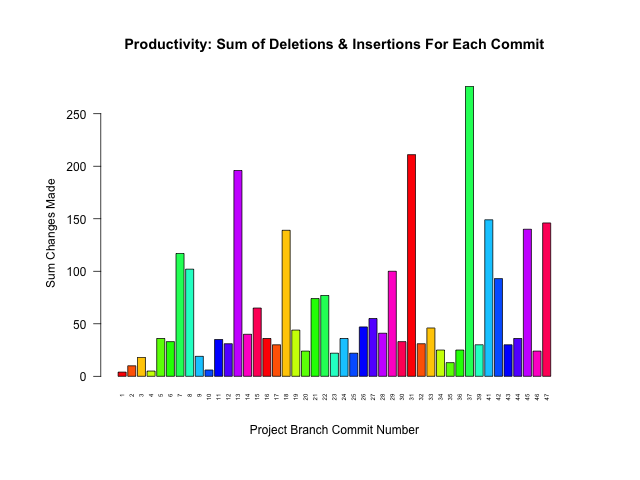
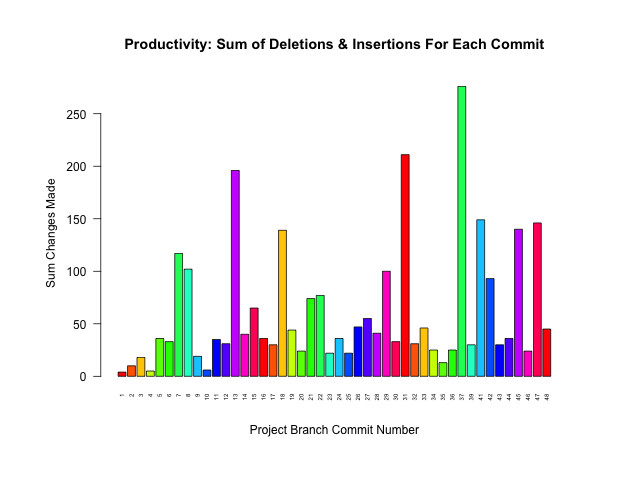
COMMIT #213

Changed region(s): [[0.1875, 0.1562, 0.875, 0.7812], [0.3125, 0.8125, 0.8438, 0.8438], [0.25, 0.8125, 0.2812, 0.8438]]

diff --git a/README.md b/README.md
@@ -17,8 +17,8 @@ ProjectName::BranchName.data
 
 Project Name | Last Updated | # Commits | # Branches | Branches Merged
 :---|:---:|:---:|:---:|:---:
-[learn_some_C.Plus.Plus](https://github.com/pierremigeon/learn_some_C.Plus.Plus)                    |  2023-06-18  |  47   |  1  |  100%  (1/1)
-[commit_tracker](https://github.com/pierremigeon/commit_tracker)                                    |  2023-06-17  |  211  |  1  |  100%  (1/1)
+[learn_some_C.Plus.Plus](https://github.com/pierremigeon/learn_some_C.Plus.Plus)                    |  2023-06-18  |  48   |  1  |  100%  (1/1)
+[commit_tracker](https://github.com/pierremigeon/commit_tracker)                                    |  2023-06-18  |  212  |  1  |  100%  (1/1)
 [libft](https://github.com/pierremigeon/libft)                                                      |  2023-06-05  |  30   |  2  |  50%   (1/2)
 [ft_printf](https://github.com/pierremigeon/ft_printf)                                              |  2023-06-01  |  37   |  2  |  100%  (2/2)
 [minishell](https://github.com/pierremigeon/minishell)                                              |  2023-05-20  |  78   |  8  |  88%   (7/8)
